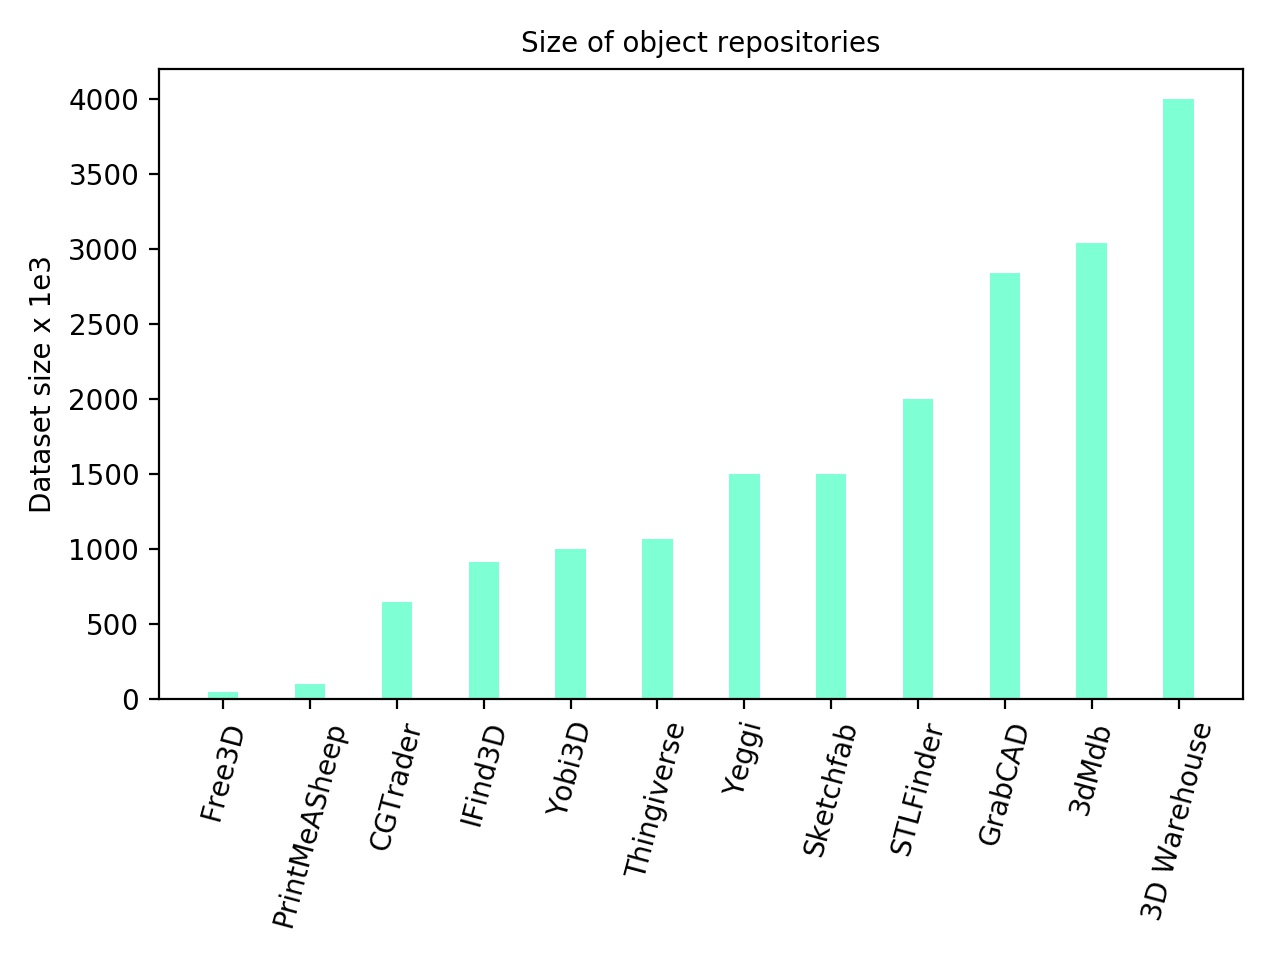
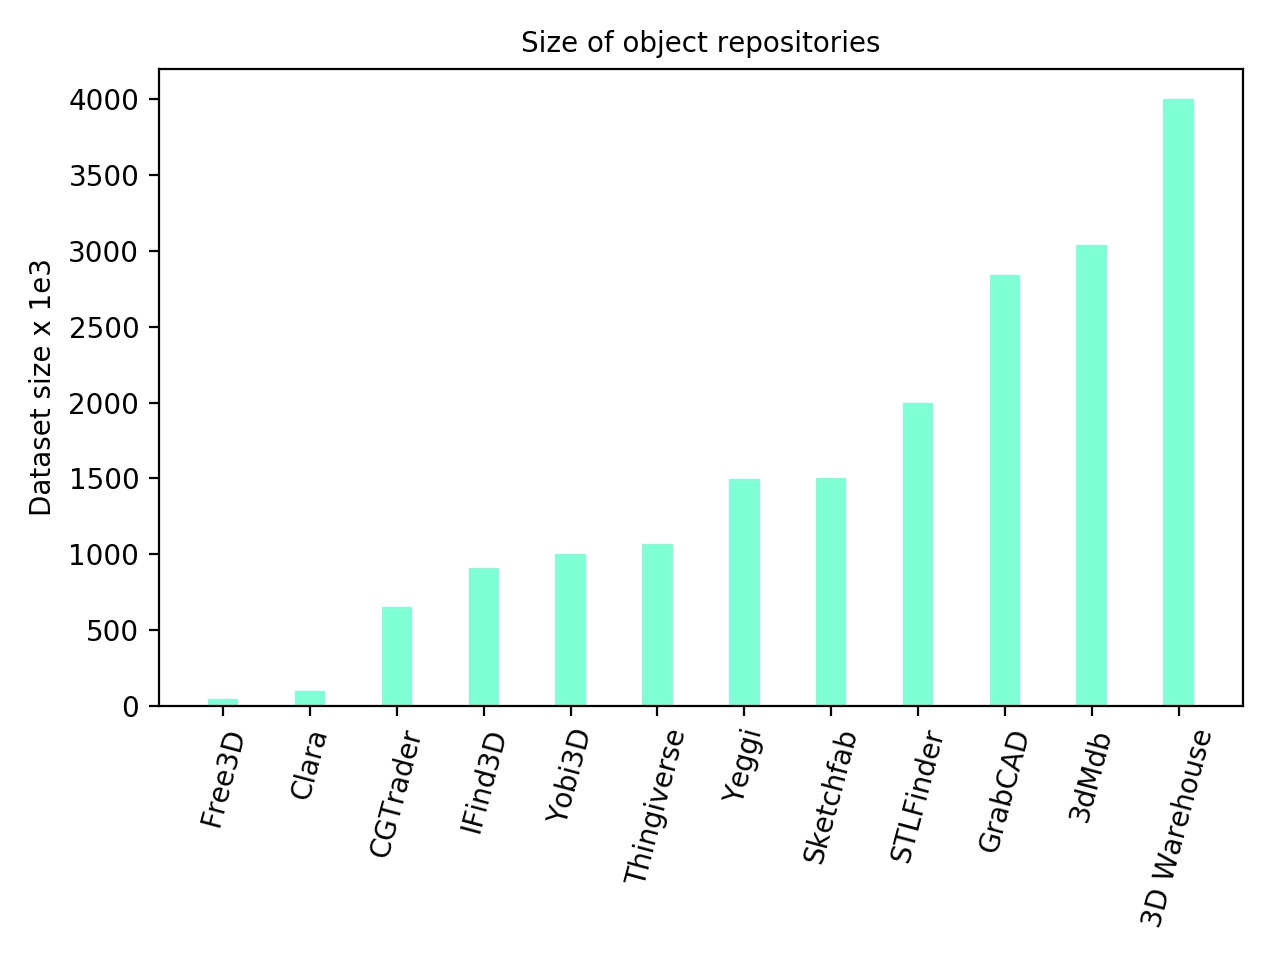
updating the obj dataset image

diff --git a/python/plot_obj_repo_size.py b/python/plot_obj_repo_size.py
@@ -13,7 +13,7 @@ dataset_dict={'3D Warehouse':4000000,
 'Yobi3D': 1000000,
 'IFind3D':  911047,
 'CGTrader': 650000,
-'PrintMeASheep': 100000,
+'Clara': 100000,
 'Free3D': 48000}
 ''',
 'My Mini Factory': 45000,
